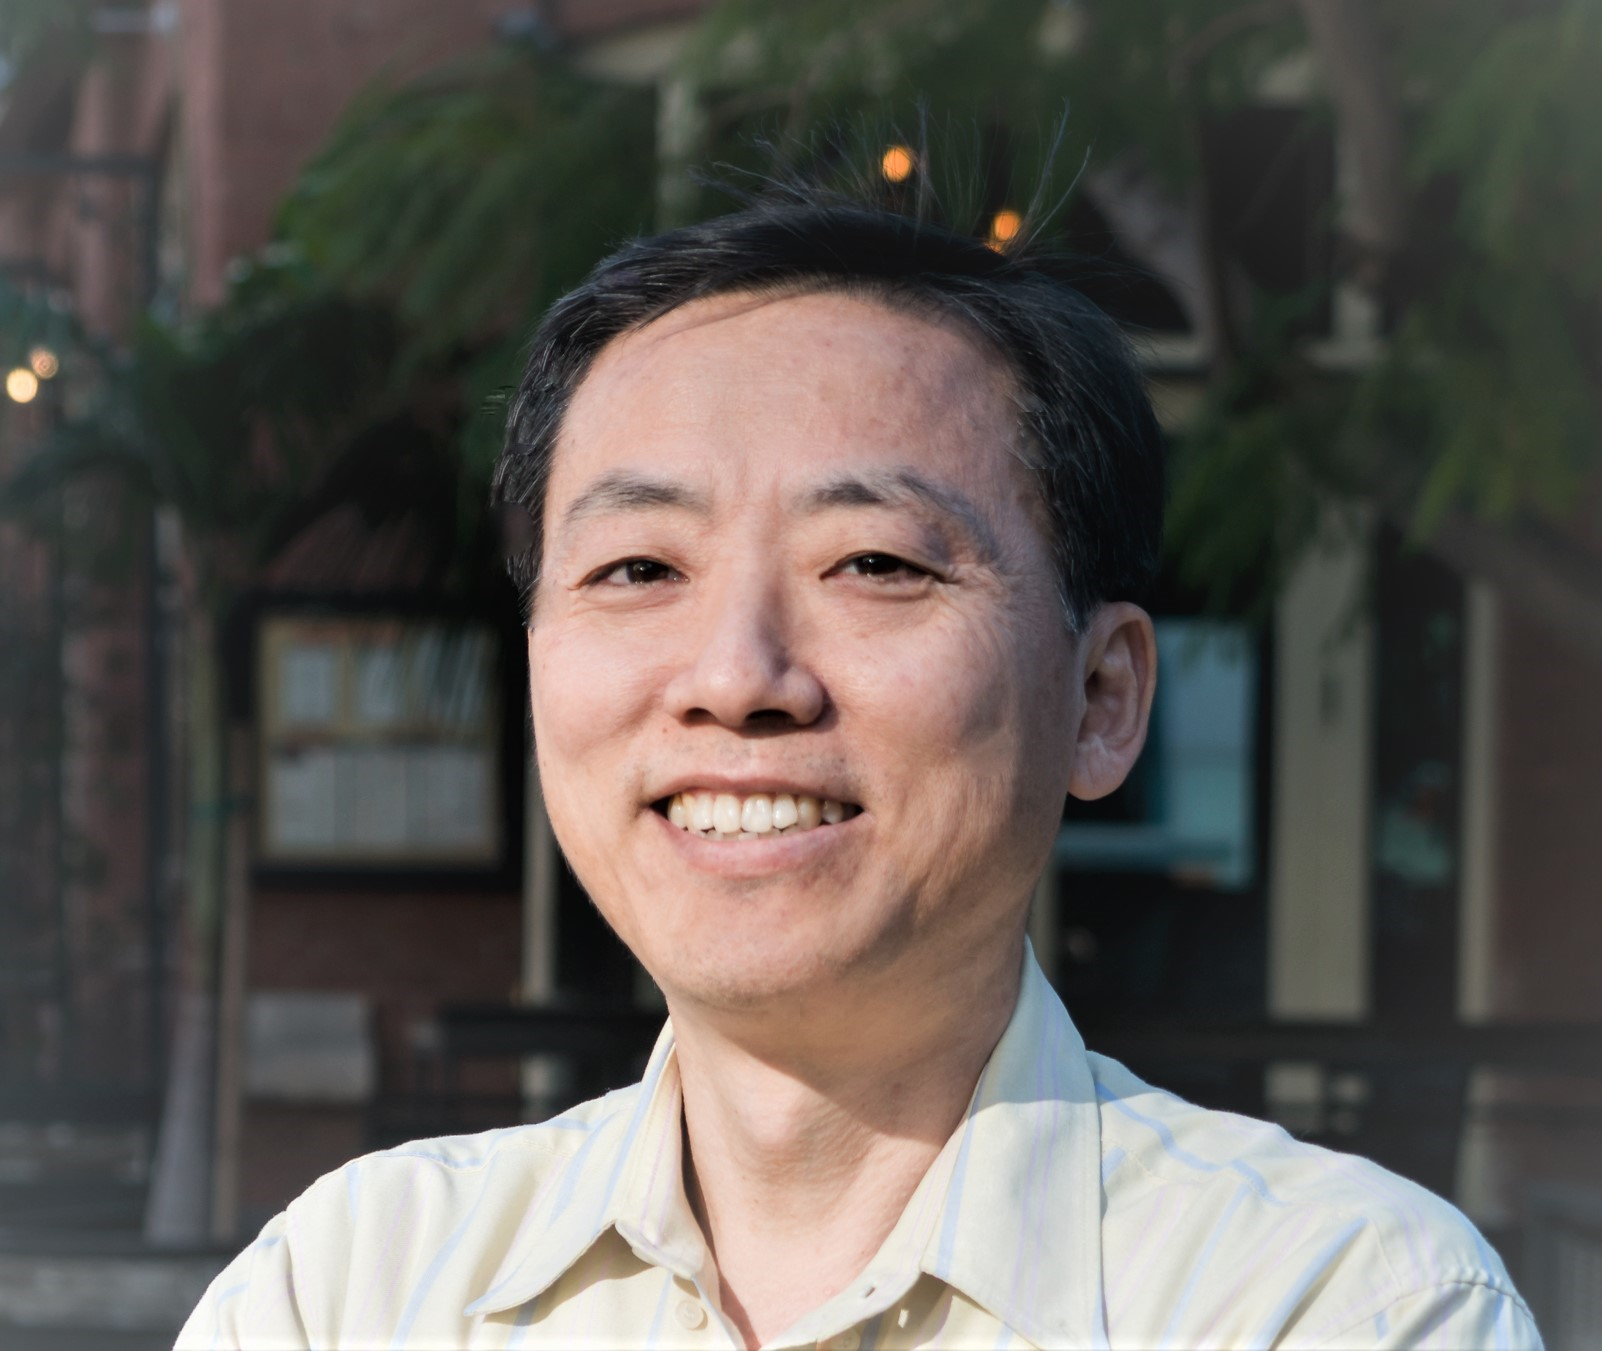
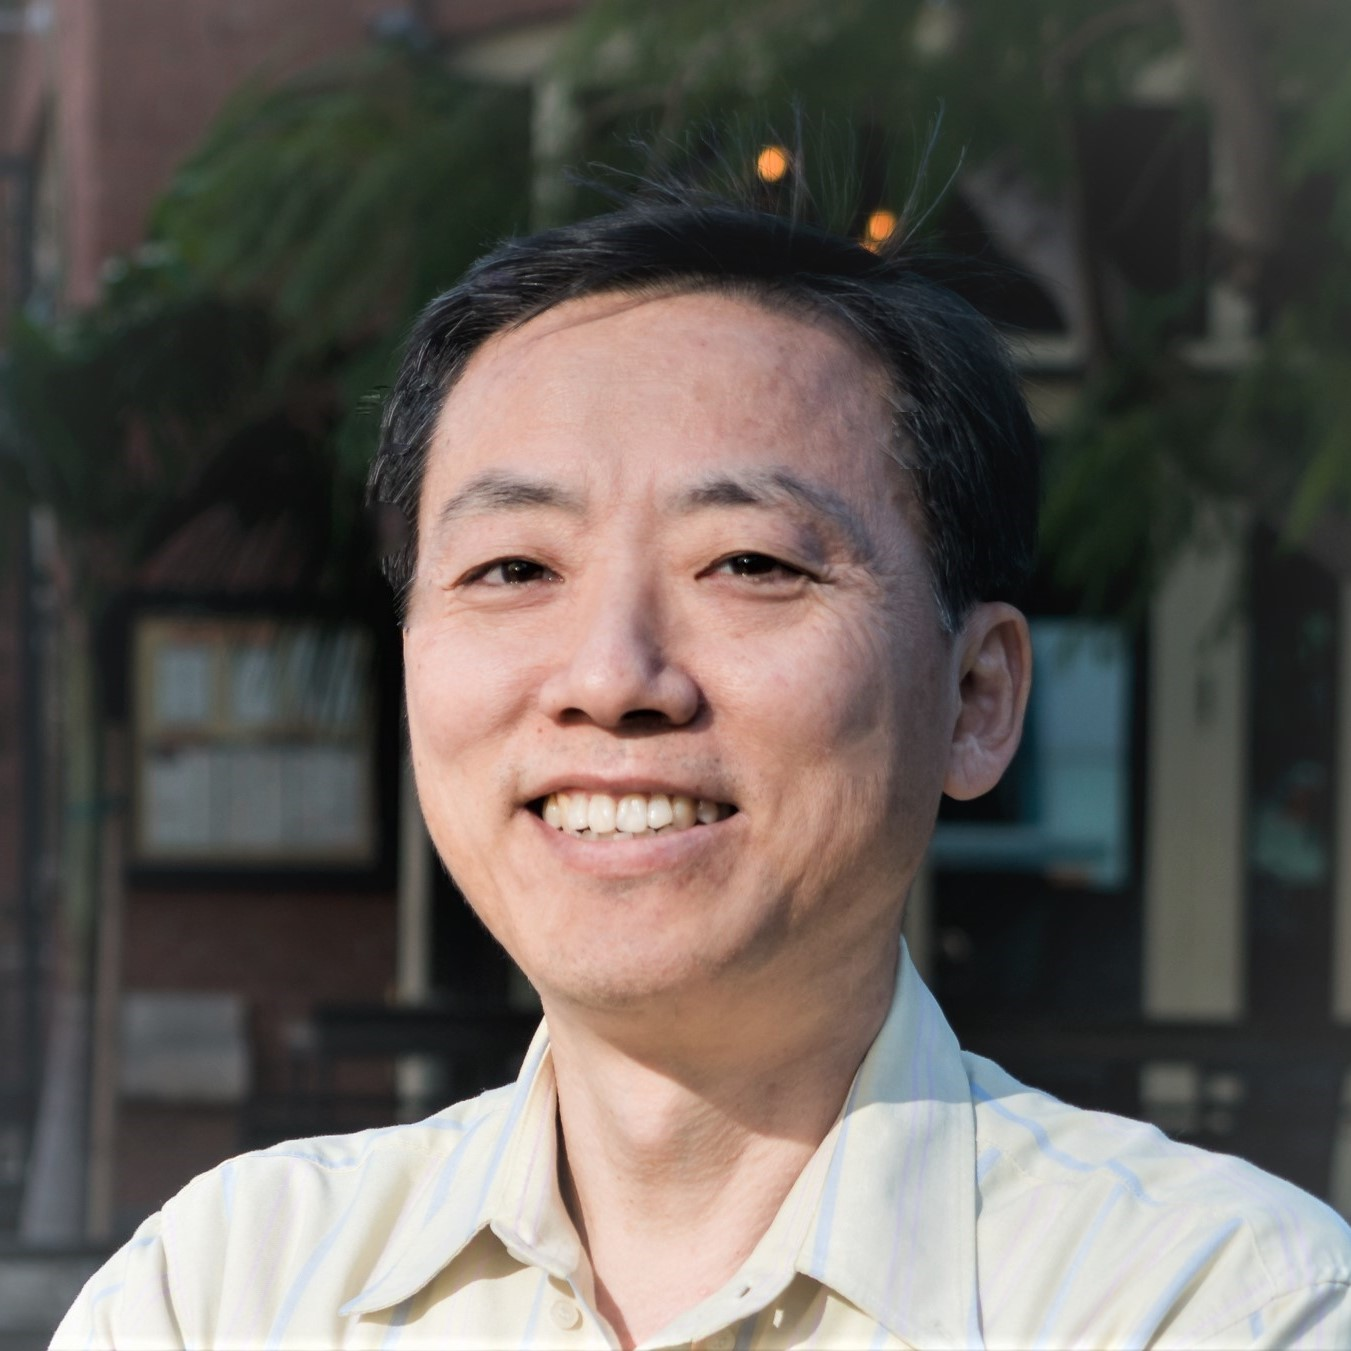
change of photo

diff --git a/index.html b/index.html
@@ -17,9 +17,13 @@
 	</nav>
 
 	<section id="about" class="intro">
-		<h1>H. Michael Ko</h1><br/>
-		<img class="me-pic" src="./img/me.jpg" alt="me picture"><br/>
-		<p>a web developer</p><br/>
+		<h1>H. Michael Ko</h1>
+		<br/>
+		<br/>
+		<img class="me-pic" src="./img/me.jpg" alt="me picture">
+		<br/>
+		<br/>
+		<h4>a web developer</h4><br/>
 	</section>
 	
 	<section id="skills" class="skills">

diff --git a/index.css b/index.css
@@ -28,8 +28,8 @@ html, body{
 }
 
 .me-pic {
-  /*width: 250px;*/
-  height: 250px;
+  width: 35%;
+  height: 35%;
   border-radius: 50%;
 }
 
@@ -69,6 +69,7 @@ nav ul li a {
 
 nav ul li a:hover {
   color: #BF1FBD;
+  font-weight: bold;
 
 }
 
